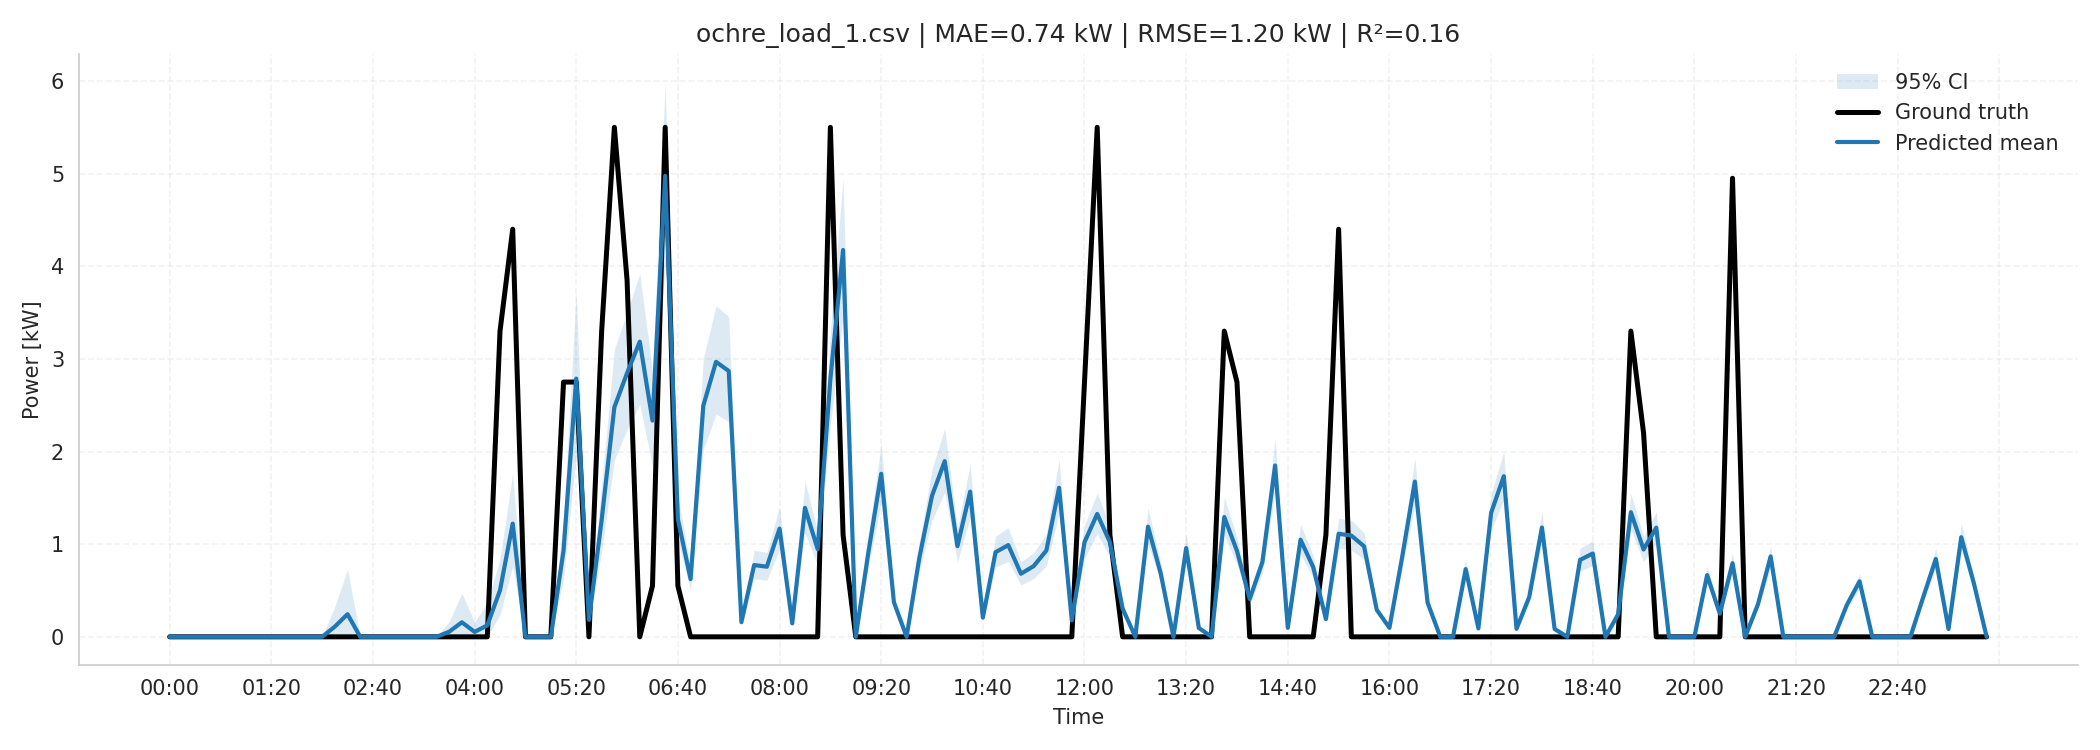
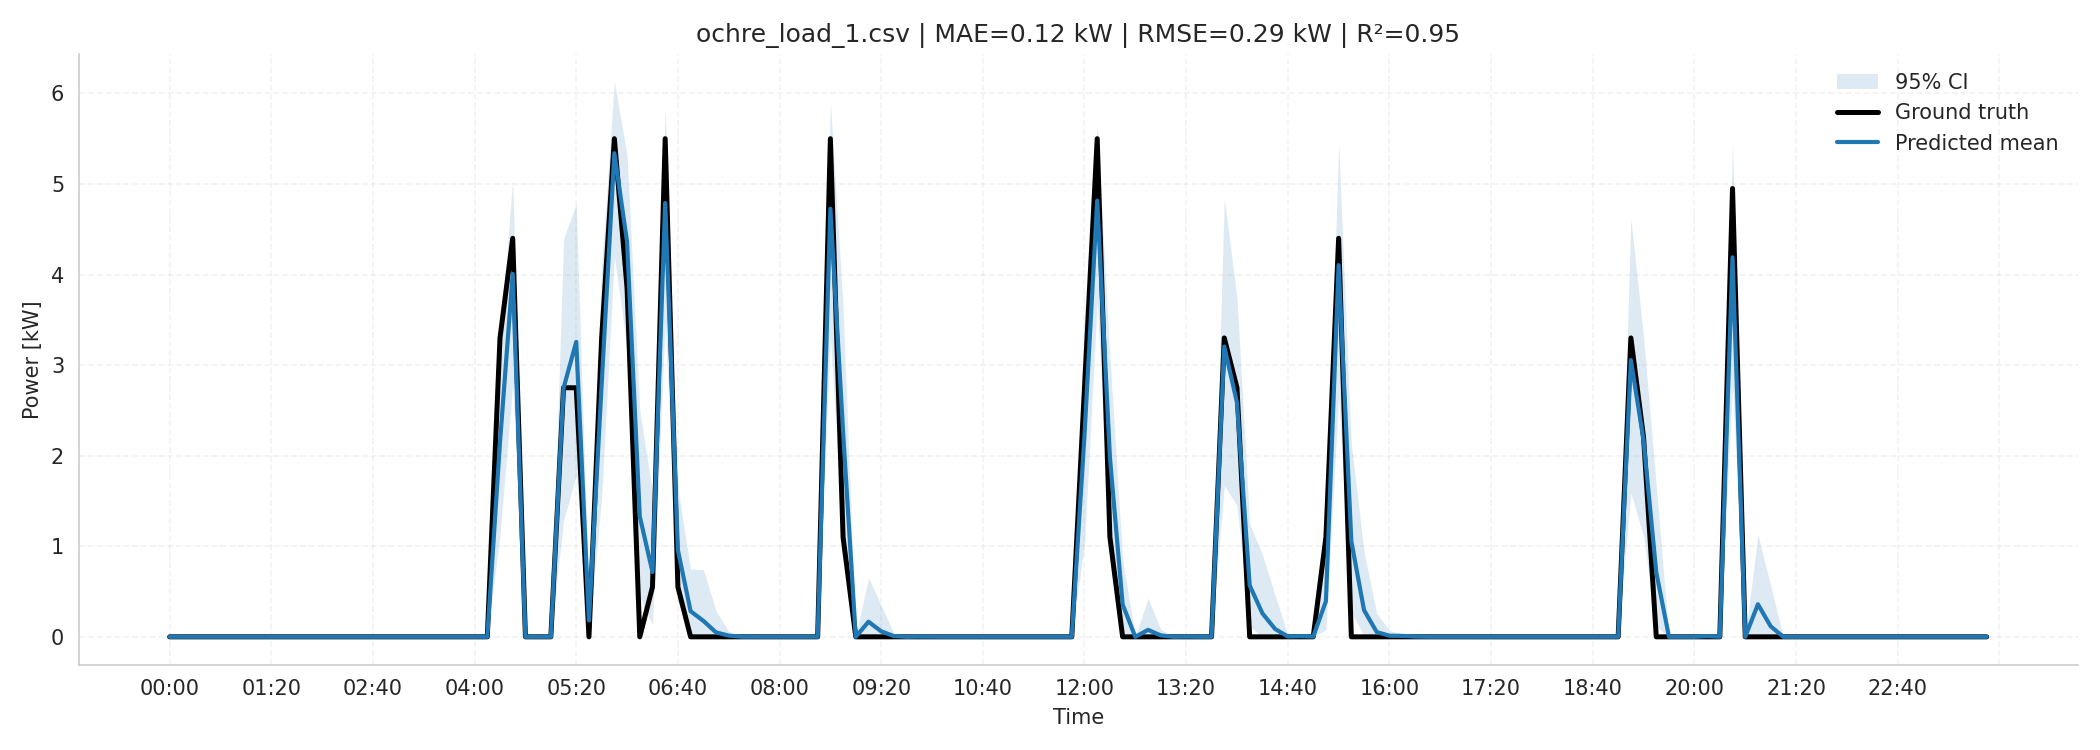
final updates, wighted mean and 0.3 weighting factor

diff --git a/cosimulation_tools/gld-ochre-helics/cosim_using_predownloaded_files/scripts/bayesian_implementation.py b/cosimulation_tools/gld-ochre-helics/cosim_using_predownloaded_files/scripts/bayesian_implementation.py
@@ -88,7 +88,7 @@ def bayesian_implementation (df : pd.DataFrame):
     history = initialize_history ()
     # define loop parameters:
     window_size, num_chunks = 10, 144
-    discount = 1
+    discount = 0.3
     for chunk_idx in range(num_chunks):
         start_index = chunk_idx * window_size
         # calculates heads and tails; the sum of ON and OFF states of DERs
